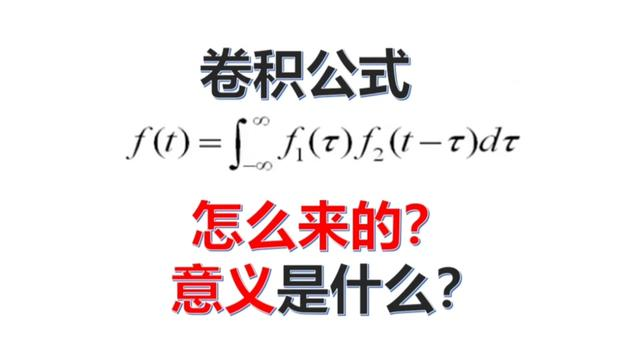
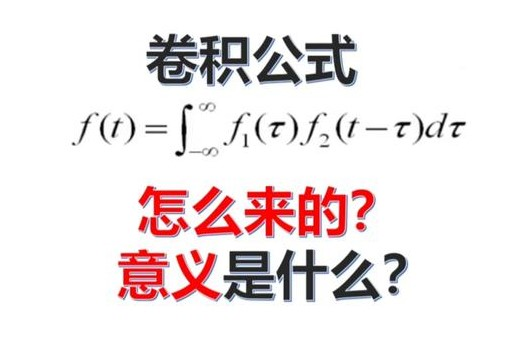
调整图像大小

Changed region(s): [[0.2067, 0.531, 0.8268, 0.9145], [0.1476, 0.0885, 0.9154, 0.472]]

diff --git a/index.html b/index.html
@@ -376,11 +376,6 @@
                                         <div class="inner-box">
                                             <figure class="image">
                                                 <img src="images/gallery/拉普拉斯变换.jpg" alt="image">
-                                                <!-- <div class="overlay">
-                                                    <a class="lightbox-image option-btn" title="Image Caption Here" data-fancybox-group="example-gallery" href="images/gallery/拉普拉斯变换.jpg">
-                                                        <i class="fa fa-search"></i>
-                                                    </a>                                
-                                                </div> -->
                                             </figure>
                                             <div class="caption-title">
                                                 <h3><a href="拉普拉斯变换.html">拉普拉斯变换究竟在做什么？</a></h3>
@@ -392,11 +387,6 @@
                                         <div class="inner-box">
                                             <figure class="image">
                                                 <img src="images/gallery/卷积的含义.jpeg" alt="image">
-                                                <!-- <div class="overlay">
-                                                    <a class="lightbox-image option-btn" title="Image Caption Here" data-fancybox-group="example-gallery" href="images/gallery/2.jpg">
-                                                        <i class="fa fa-search"></i>
-                                                    </a>                                
-                                                </div> -->
                                             </figure>
                                             <div class="caption-title">
                                                 <h3><a href="卷积的含义.html">卷积的含义</a></h3>
@@ -408,11 +398,6 @@
                                         <div class="inner-box">
                                             <figure class="image">
                                                 <img src="images/gallery/拉普拉斯变换的收敛域.png" alt="image">
-                                                <!-- <div class="overlay">
-                                                    <a class="lightbox-image option-btn" title="Image Caption Here" data-fancybox-group="example-gallery" href="images/gallery/3.jpg">
-                                                        <i class="fa fa-search"></i>
-                                                    </a>                                
-                                                </div> -->
                                             </figure>
                                             <div class="caption-title">
                                                 <h3><a href="拉普拉斯变换的收敛域.html">拉普拉斯变换的收敛域、逆变换</a></h3>
